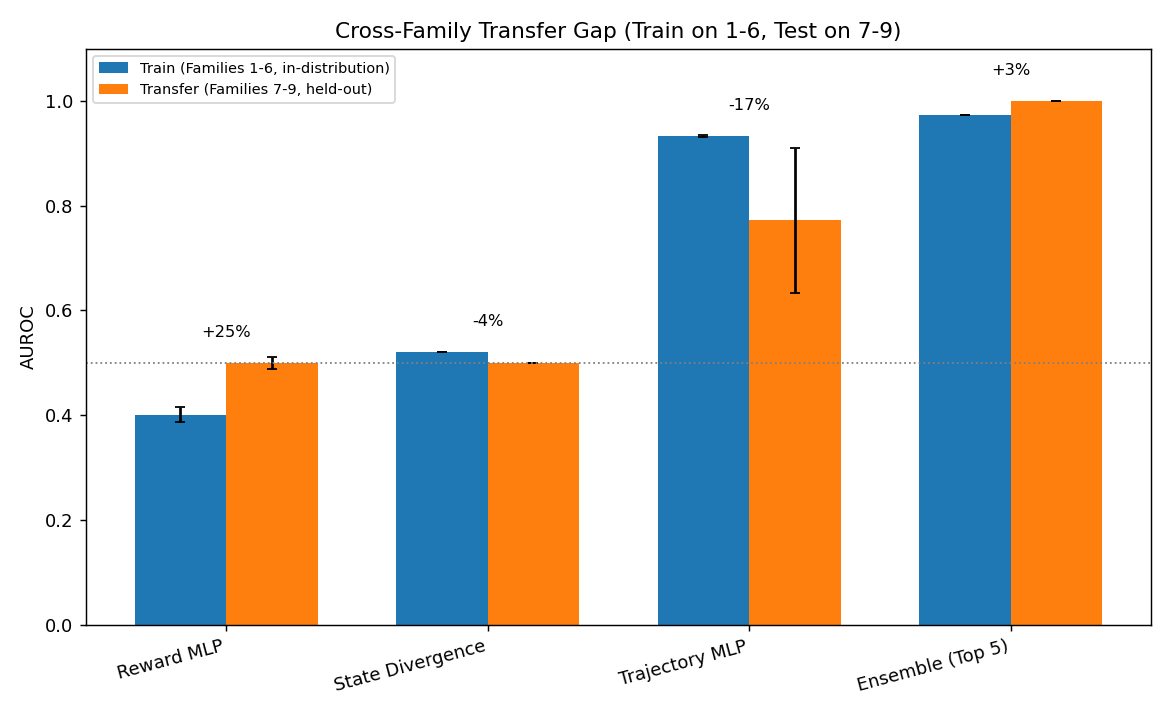
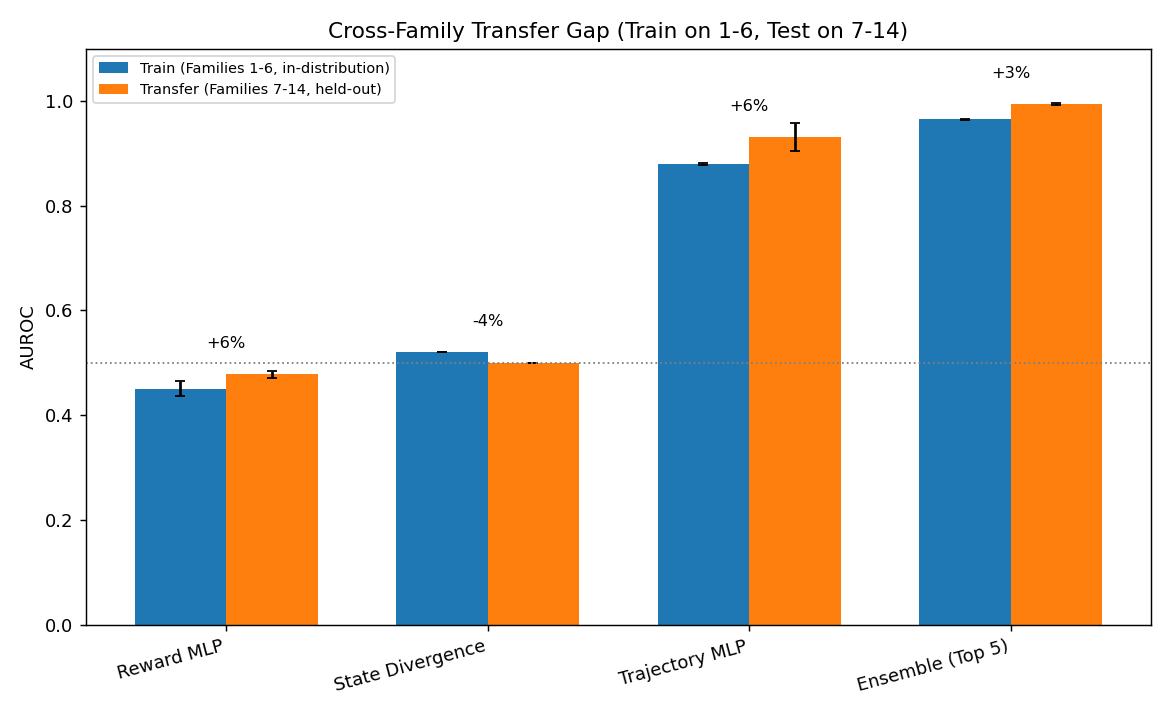
Expand cross-family transfer test to all 5 new v1.4 families (7->14)
TEST_FAMILIES grows from 3 to 8 by adding the REWARD_TAMPERING,
DECEPTIVE_ALIGNMENT, and RM_OVEROPTIMIZATION families -- mechanism types
absent from TRAIN_FAMILIES, making this a stricter generalization test than
the original 3-family split. TRAIN_FAMILIES is unchanged.

diff --git a/scripts/cross_family_transfer.py b/scripts/cross_family_transfer.py
@@ -1,10 +1,19 @@
 #!/usr/bin/env python
-"""Cross-family generalization experiment: train on Families 1-6, test on 7-9.
+"""Cross-family generalization experiment: train on Families 1-6, test on 7-14.
 
 This is the real experiment behind the paper's Cross-Family Transfer Analysis
 (Section 6.3, Table ``tab:transfer``). Earlier drafts of that table used
 illustrative placeholder numbers; this script produces the real ones from the
 actual RHOB v3/v5 environments, families, and detectors.
+
+TEST_FAMILIES was expanded from 3 to 8 families (v1.4): the 5 families added in
+v1.4 (reward_channel_tampering, sensor_calibration_tampering, monitored_sandbagging,
+eval_probe_sandbagging, rlhf_reward_model_overopt) introduce 3 mechanism types
+(REWARD_TAMPERING, DECEPTIVE_ALIGNMENT, RM_OVEROPTIMIZATION) that appear in neither
+TRAIN_FAMILIES nor the original 3 test families -- testing transfer to them is a
+strictly more meaningful "mechanistically unseen" evaluation than the original split,
+which only exercised 2 unseen mechanism types on top of what training already covers.
+TRAIN_FAMILIES is unchanged, so "train AUROC" numbers stay comparable to prior results.
 
 Methodology:
   1. "Train" AUROC: in-distribution performance of each detector on Families
@@ -16,8 +25,9 @@ Methodology:
      deployable model -- standard practice: cross-validation is for honest
      scoring, the shipped model uses all available training data.
   3. That frozen model is evaluated -- with no further fitting -- on
-     held-out Families 7-9 (goal misgeneralization, physics exploitation,
-     distributional shift), which it has never seen in any form.
+     held-out Families 7-14 (goal misgeneralization, physics exploitation,
+     distributional shift, plus the 5 v1.4 families spanning 3 mechanism
+     types unseen during training), which it has never seen in any form.
   4. A Top-5 L2 ensemble (4 stateless behavioral detectors + the frozen
      Trajectory MLP) is evaluated the same way, to measure whether combining
      detectors recovers some of the transfer gap.
@@ -61,6 +71,11 @@ TEST_FAMILIES = [
     "goal_misgeneralization",
     "physics_exploitation",
     "distributional_shift",
+    "reward_channel_tampering",
+    "sensor_calibration_tampering",
+    "monitored_sandbagging",
+    "eval_probe_sandbagging",
+    "rlhf_reward_model_overopt",
 ]
 
 TEST_SEED_BASE = 50_000  # disjoint from any training rollout seeds

diff --git a/scripts/plot_v5_results.py b/scripts/plot_v5_results.py
@@ -168,7 +168,7 @@ def plot_transfer(transfer_path: Path, out_path: Path) -> None:
     ax.bar(x - width / 2, train_vals, width, yerr=train_errs, capsize=3,
            label="Train (Families 1-6, in-distribution)")
     ax.bar(x + width / 2, transfer_vals, width, yerr=transfer_errs, capsize=3,
-           label="Transfer (Families 7-9, held-out)")
+           label="Transfer (Families 7-14, held-out)")
     ax.axhline(0.5, color="gray", ls=":", lw=1)
     for i, n in enumerate(names):
         gap = results[n].get("generalization_gap_pct", results[n].get("generalization_gap_pct_mean"))
@@ -181,7 +181,7 @@ def plot_transfer(transfer_path: Path, out_path: Path) -> None:
     ax.set_xticklabels(names, rotation=15, ha="right")
     ax.set_ylabel("AUROC")
     ax.set_ylim(0.0, 1.1)
-    ax.set_title("Cross-Family Transfer Gap (Train on 1-6, Test on 7-9)")
+    ax.set_title("Cross-Family Transfer Gap (Train on 1-6, Test on 7-14)")
     ax.legend(fontsize=8)
     fig.tight_layout()
     fig.savefig(out_path, dpi=130)